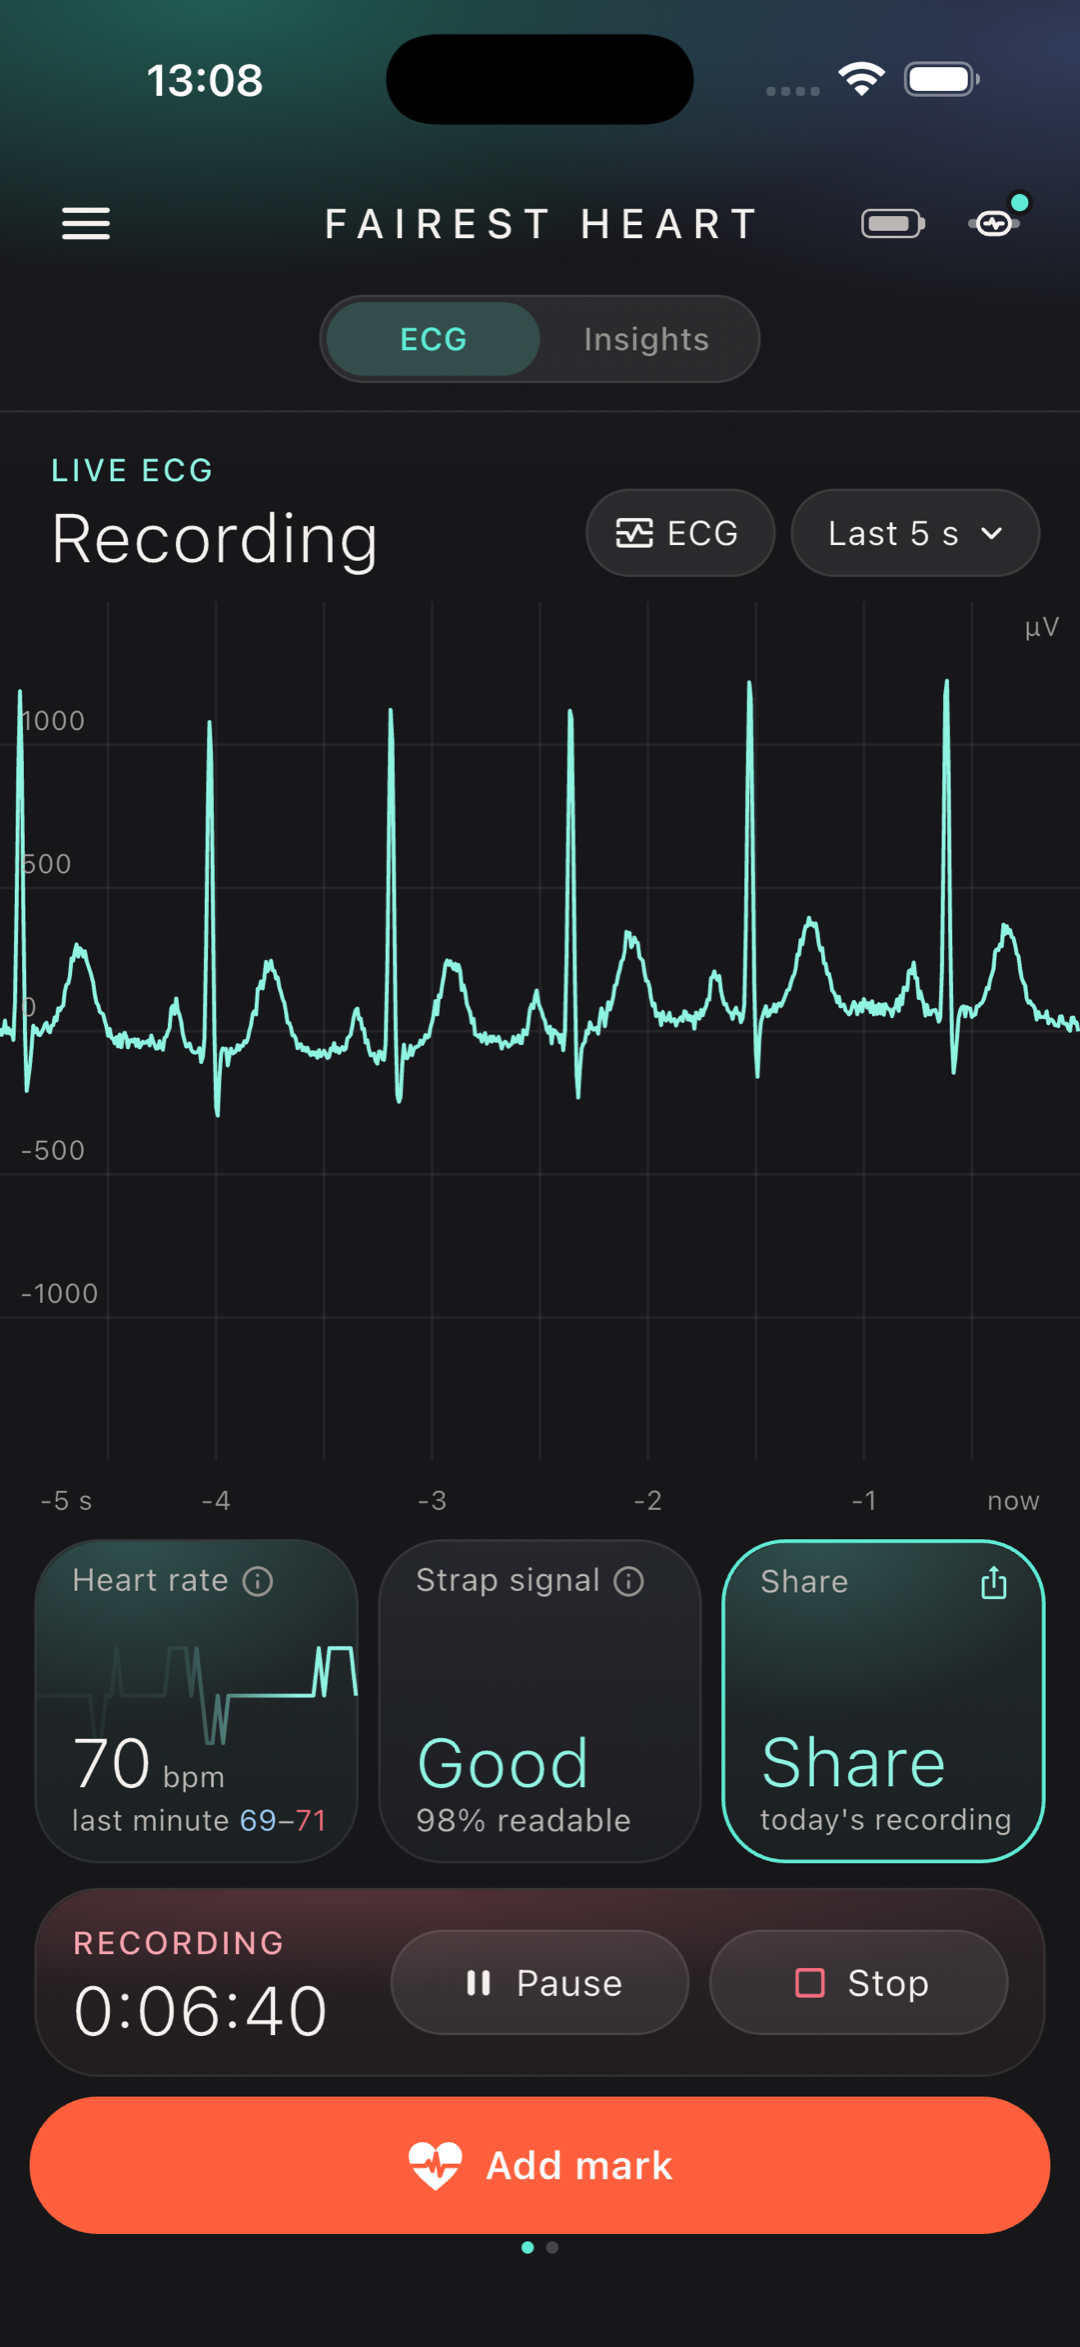
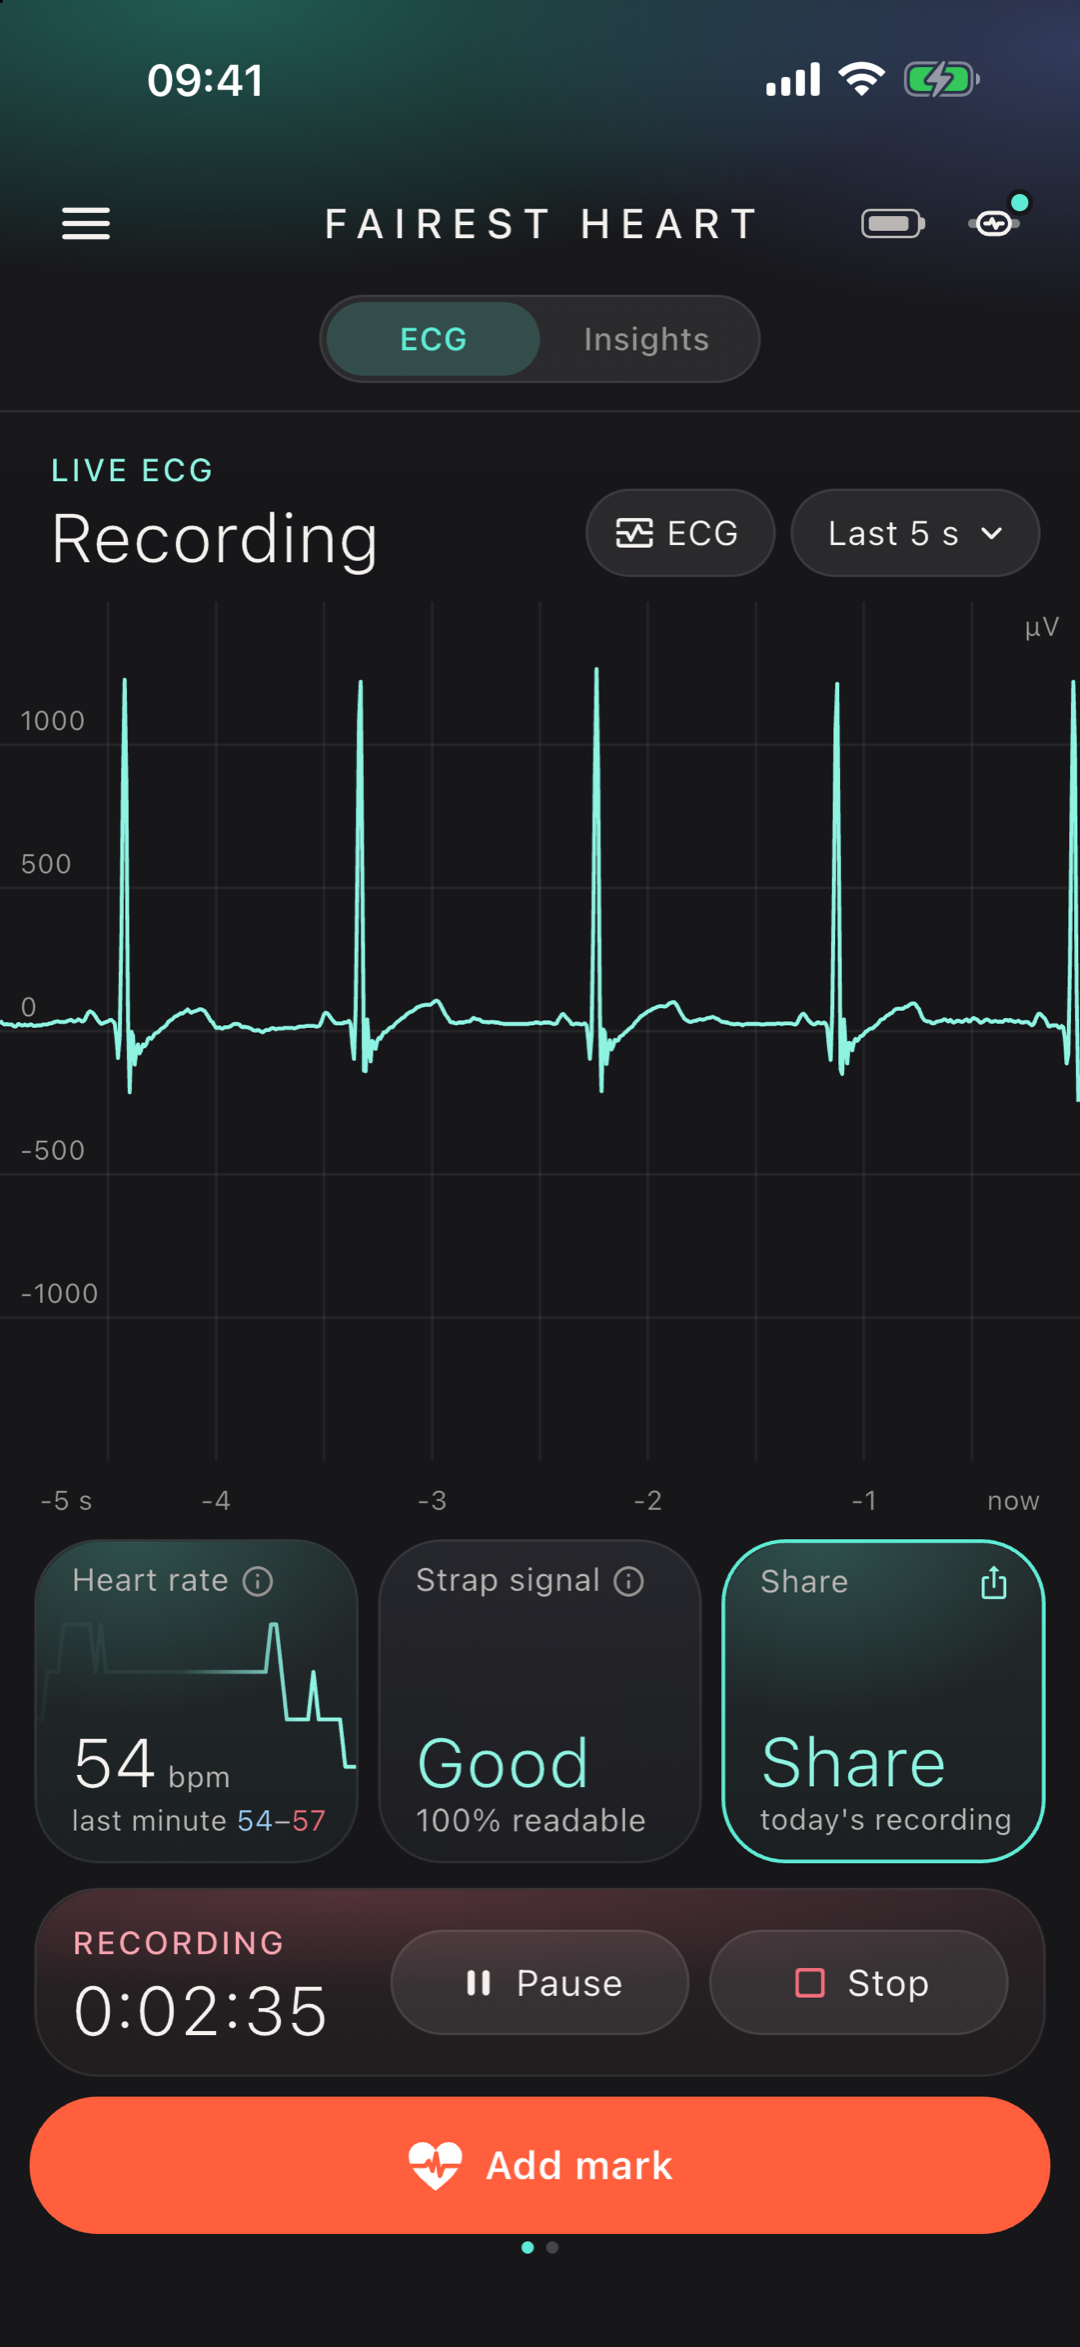
Home: phone picture from a real recording (0.111.17 store build)

diff --git a/index.html b/index.html
@@ -75,7 +75,7 @@
         <p class="hero-why">New here? <a href="get-started.html">Get started.</a></p>
         <p class="hero-note">Free to record and share as EDF+. Android 8.0 or newer. The app has no internet access.</p>
       </div>
-      <div class="phone"><img src="screenshot-ecg.png" alt="The ECG tab of Fairest Heart: a live trace, heart rate 70 bpm, strap signal Good, a recording running, and the Add mark button"></div>
+      <div class="phone"><img src="screenshot-ecg.png" alt="The ECG tab of Fairest Heart: a live trace, heart rate, strap signal Good, a recording running, and the Add mark button"></div>
     </div>
 
     <div class="wrap">
